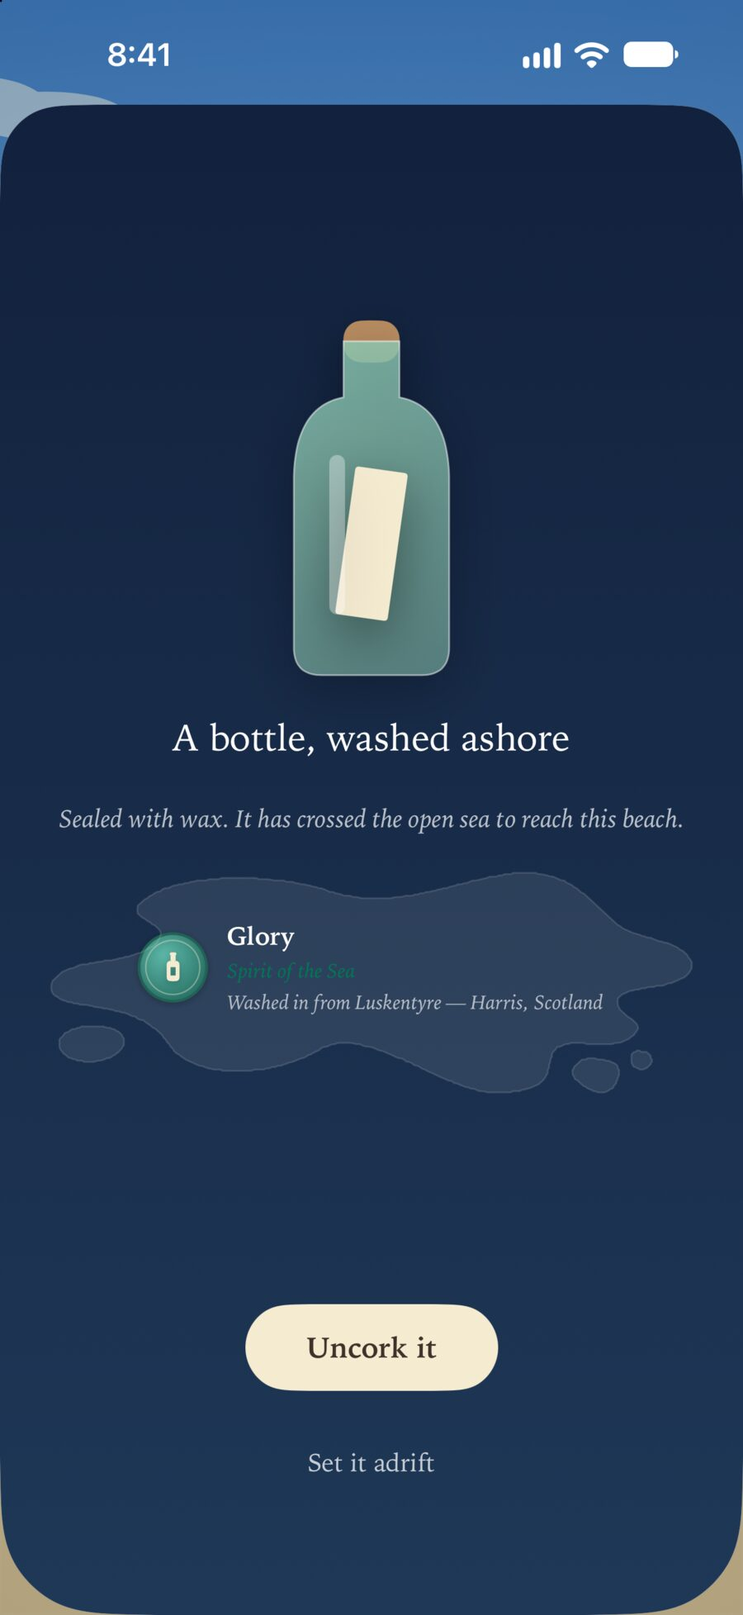
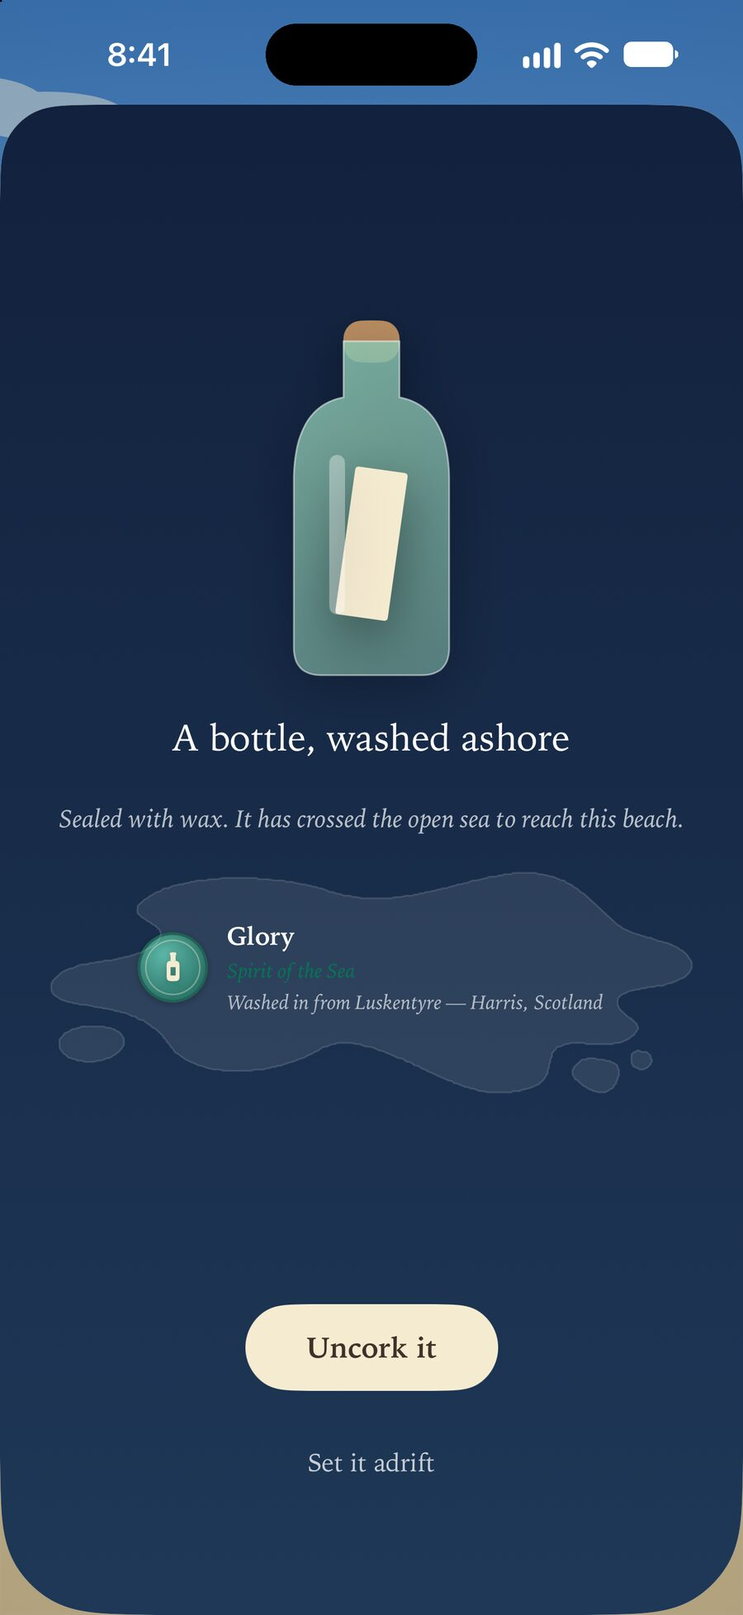
La home ha le riprese nuove: un solo telefono, una bottiglia su ogni spiaggia
Le otto schermate della home vengono dalle riprese fatte apposta per il
sito dalla scheda store (scheda-2026-11/sito/): build 6, tutte dallo
stesso iPhone 17 Pro Max con l'isola dinamica, e una bottiglia sulla
sabbia di ogni spiaggia. Così l'isola c'è in tutti i fotogrammi e
nessuna spiaggia si ripete: la notte della fila è Eggum, non più Unstad,
che resta nell'eroe.

- Stessi nomi di file, con ?v=2 perché la versione di prima è online con
  gli stessi URL; la notte della fila diventa spiagge/eggum-notte.jpg.
- JPG da 900×1955, come prima.
- Alt dell'eroe e delle quattro spiagge riscritti nelle sette lingue (la
  bottiglia sulla sabbia, Eggum alle Lofoten). lingue.js passa a ?v=12.

Changed region(s): [[0.3422, 0.0, 0.6533, 0.0624]]

diff --git a/lingue.js b/lingue.js
@@ -47,7 +47,7 @@ const LINGUE = {
   "Somewhere out there, someone you will never meet is writing to you. The current will carry their bottle to your sand, and yours to a beach you have never seen, in six to thirty-six hours.": "Da qualche parte, qualcuno che non incontrerai mai ti sta scrivendo. La corrente porterà la sua bottiglia sulla tua sabbia, e la tua su una spiaggia che non hai mai visto, fra sei e trentasei ore.",
   "Coming to iPhone and Android": "Presto su iPhone e Android",
   "Free to write, free to receive": "Gratis scrivere, gratis ricevere",
-  "The app at Unstad, in the Lofoten, at night: the aurora and a full moon over a dark arctic sea, with a peak on the horizon.": "L'app a Unstad, alle Lofoten, di notte: l'aurora e la luna piena su un mare artico scuro, con una vetta all'orizzonte.",
+  "The app at Unstad, in the Lofoten, at night: the aurora and a full moon over a dark arctic sea, and a bottle washed up on the sand.": "L'app a Unstad, alle Lofoten, di notte: l'aurora e la luna piena su un mare artico scuro, e una bottiglia approdata sulla sabbia.",
   "The sea opens soon.": "Il mare apre presto.",
   "The shipwreck": "Il naufragio",
   "Sardegna, Italy": "Sardegna, Italia",
@@ -70,10 +70,10 @@ const LINGUE = {
   "A bottle washed ashore, in the app: sealed with wax, from Glory, a Spirit of the Sea, washed in from Luskentyre.": "Una bottiglia approdata, nell'app: sigillata con la ceralacca, da Glory, uno Spirito del Mare, arrivata da Luskentyre.",
   "A correspondence in the journal: a letter from Glory, a Spirit of the Sea, the reply underneath, and a note that the reply is already sailing.": "Un carteggio nel diario: una lettera di Glory, uno Spirito del Mare, sotto la risposta, e una riga che dice che la risposta è già in viaggio.",
   "The nautical chart: a route from Vai, on Crete, west across the Mediterranean and north up the Atlantic to Luskentyre, in Scotland, with the bottle just setting out.": "La carta nautica: una rotta da Vai, a Creta, verso ovest per il Mediterraneo e poi a nord su per l'Atlantico fino a Luskentyre, in Scozia, con la bottiglia appena partita.",
-  "Dawn at Diamond Beach in the app: a lilac sky, a pale sun and an iceberg on the water.": "L'alba a Diamond Beach nell'app: un cielo lilla, un sole pallido e un iceberg sull'acqua.",
-  "Midday at Matira Beach in the app: blue sky, turquoise water and a palm on the white sand.": "Mezzogiorno a Matira Beach nell'app: cielo azzurro, acqua turchese e una palma sulla sabbia bianca.",
-  "Dusk at Reynisfjara in the app: a red sky, the sea stacks and black volcanic sand.": "Il tramonto a Reynisfjara nell'app: un cielo rosso, i faraglioni e la sabbia nera vulcanica.",
-  "Night at Unstad in the app: the aurora over a dark arctic sea.": "La notte a Unstad nell'app: l'aurora sopra un mare artico scuro.",
+  "Dawn at Diamond Beach in the app: a lilac sky, a pale sun, an iceberg on the water and a bottle on the sand.": "L'alba a Diamond Beach nell'app: un cielo lilla, un sole pallido, un iceberg sull'acqua e una bottiglia sulla sabbia.",
+  "Midday at Matira Beach in the app: blue sky, turquoise water, a palm and a bottle on the white sand.": "Mezzogiorno a Matira Beach nell'app: cielo azzurro, acqua turchese, una palma e una bottiglia sulla sabbia bianca.",
+  "Dusk at Reynisfjara in the app: a red sky, the sea stacks and a bottle on the black volcanic sand.": "Il tramonto a Reynisfjara nell'app: un cielo rosso, i faraglioni e una bottiglia sulla sabbia nera vulcanica.",
+  "Night at Eggum, in the Lofoten, in the app: the aurora over a dark arctic sea and a bottle on the sand.": "La notte a Eggum, alle Lofoten, nell'app: l'aurora sopra un mare artico scuro e una bottiglia sulla sabbia.",
   "Four of the 250: dawn at Diamond Beach in Iceland, midday on Bora Bora, dusk on the black sand of Reynisfjara, and an arctic night in the Lofoten with the aurora overhead.": "Quattro delle 250: l'alba a Diamond Beach in Islanda, mezzogiorno a Bora Bora, il tramonto sulla sabbia nera di Reynisfjara, e una notte artica alle Lofoten con l'aurora sopra la testa.",
   "One of the 250 shores the storm knows. Yours could be any of them.": "Una delle 250 rive che la tempesta conosce. La tua potrebbe essere una qualsiasi.",
   "Vík, Iceland": "Vík, Islanda",
@@ -317,7 +317,7 @@ const LINGUE = {
   "Somewhere out there, someone you will never meet is writing to you. The current will carry their bottle to your sand, and yours to a beach you have never seen, in six to thirty-six hours.": "En algún lugar, alguien a quien nunca conocerás te está escribiendo. La corriente llevará su botella a tu arena, y la tuya a una playa que nunca has visto, en un plazo de seis a treinta y seis horas.",
   "Coming to iPhone and Android": "Pronto en iPhone y Android",
   "Free to write, free to receive": "Gratis escribir, gratis recibir",
-  "The app at Unstad, in the Lofoten, at night: the aurora and a full moon over a dark arctic sea, with a peak on the horizon.": "La app en Unstad, en las Lofoten, de noche: la aurora y la luna llena sobre un mar ártico oscuro, con un pico en el horizonte.",
+  "The app at Unstad, in the Lofoten, at night: the aurora and a full moon over a dark arctic sea, and a bottle washed up on the sand.": "La app en Unstad, en las Lofoten, de noche: la aurora y la luna llena sobre un mar ártico oscuro, y una botella llegada a la arena.",
   "The sea opens soon.": "El mar abre pronto.",
   "The shipwreck": "El naufragio",
   "Sardegna, Italy": "Cerdeña, Italia",
@@ -340,10 +340,10 @@ const LINGUE = {
   "A bottle washed ashore, in the app: sealed with wax, from Glory, a Spirit of the Sea, washed in from Luskentyre.": "Una botella llegada a la orilla, en la app: sellada con lacre, de Glory, un Espíritu del Mar, llegada desde Luskentyre.",
   "A correspondence in the journal: a letter from Glory, a Spirit of the Sea, the reply underneath, and a note that the reply is already sailing.": "Una correspondencia en el diario: una carta de Glory, un Espíritu del Mar, debajo la respuesta, y una nota que dice que la respuesta ya navega.",
   "The nautical chart: a route from Vai, on Crete, west across the Mediterranean and north up the Atlantic to Luskentyre, in Scotland, with the bottle just setting out.": "La carta náutica: una ruta desde Vai, en Creta, hacia el oeste por el Mediterráneo y luego al norte por el Atlántico hasta Luskentyre, en Escocia, con la botella recién salida.",
-  "Dawn at Diamond Beach in the app: a lilac sky, a pale sun and an iceberg on the water.": "El alba en Diamond Beach en la app: un cielo lila, un sol pálido y un iceberg en el agua.",
-  "Midday at Matira Beach in the app: blue sky, turquoise water and a palm on the white sand.": "El mediodía en Matira Beach en la app: cielo azul, agua turquesa y una palmera en la arena blanca.",
-  "Dusk at Reynisfjara in the app: a red sky, the sea stacks and black volcanic sand.": "El atardecer en Reynisfjara en la app: un cielo rojo, los farallones y la arena negra volcánica.",
-  "Night at Unstad in the app: the aurora over a dark arctic sea.": "La noche en Unstad en la app: la aurora sobre un mar ártico oscuro.",
+  "Dawn at Diamond Beach in the app: a lilac sky, a pale sun, an iceberg on the water and a bottle on the sand.": "El alba en Diamond Beach en la app: un cielo lila, un sol pálido, un iceberg en el agua y una botella en la arena.",
+  "Midday at Matira Beach in the app: blue sky, turquoise water, a palm and a bottle on the white sand.": "El mediodía en Matira Beach en la app: cielo azul, agua turquesa, una palmera y una botella en la arena blanca.",
+  "Dusk at Reynisfjara in the app: a red sky, the sea stacks and a bottle on the black volcanic sand.": "El atardecer en Reynisfjara en la app: un cielo rojo, los farallones y una botella en la arena negra volcánica.",
+  "Night at Eggum, in the Lofoten, in the app: the aurora over a dark arctic sea and a bottle on the sand.": "La noche en Eggum, en las Lofoten, en la app: la aurora sobre un mar ártico oscuro y una botella en la arena.",
   "Four of the 250: dawn at Diamond Beach in Iceland, midday on Bora Bora, dusk on the black sand of Reynisfjara, and an arctic night in the Lofoten with the aurora overhead.": "Cuatro de las 250: el alba en Diamond Beach, en Islandia, el mediodía en Bora Bora, el atardecer en la arena negra de Reynisfjara y una noche ártica en las Lofoten con la aurora por encima.",
   "One of the 250 shores the storm knows. Yours could be any of them.": "Una de las 250 orillas que la tormenta conoce. La tuya podría ser cualquiera.",
   "Vík, Iceland": "Vík, Islandia",
@@ -587,7 +587,7 @@ const LINGUE = {
   "Somewhere out there, someone you will never meet is writing to you. The current will carry their bottle to your sand, and yours to a beach you have never seen, in six to thirty-six hours.": "Quelque part, quelqu'un que tu ne rencontreras jamais t'écrit. Le courant portera sa bouteille jusqu'à ton sable, et la tienne vers une plage que tu n'as jamais vue, en six à trente-six heures.",
   "Coming to iPhone and Android": "Bientôt sur iPhone et Android",
   "Free to write, free to receive": "Gratuit pour écrire, gratuit pour recevoir",
-  "The app at Unstad, in the Lofoten, at night: the aurora and a full moon over a dark arctic sea, with a peak on the horizon.": "L'application à Unstad, aux Lofoten, la nuit : l'aurore et la pleine lune sur une mer arctique sombre, avec un pic à l'horizon.",
+  "The app at Unstad, in the Lofoten, at night: the aurora and a full moon over a dark arctic sea, and a bottle washed up on the sand.": "L'application à Unstad, aux Lofoten, la nuit : l'aurore et la pleine lune sur une mer arctique sombre, et une bouteille échouée sur le sable.",
   "The sea opens soon.": "La mer ouvre bientôt.",
   "The shipwreck": "Le naufrage",
   "Sardegna, Italy": "Sardaigne, Italie",
@@ -610,10 +610,10 @@ const LINGUE = {
   "A bottle washed ashore, in the app: sealed with wax, from Glory, a Spirit of the Sea, washed in from Luskentyre.": "Une bouteille échouée, dans l'application : scellée à la cire, de Glory, un Esprit de la Mer, venue de Luskentyre.",
   "A correspondence in the journal: a letter from Glory, a Spirit of the Sea, the reply underneath, and a note that the reply is already sailing.": "Une correspondance dans le journal : une lettre de Glory, un Esprit de la Mer, la réponse en dessous, et une note disant que la réponse est déjà en mer.",
   "The nautical chart: a route from Vai, on Crete, west across the Mediterranean and north up the Atlantic to Luskentyre, in Scotland, with the bottle just setting out.": "La carte marine : une route depuis Vai, en Crète, vers l'ouest à travers la Méditerranée puis vers le nord le long de l'Atlantique jusqu'à Luskentyre, en Écosse, avec la bouteille tout juste partie.",
-  "Dawn at Diamond Beach in the app: a lilac sky, a pale sun and an iceberg on the water.": "L'aube à Diamond Beach dans l'application : un ciel lilas, un soleil pâle et un iceberg sur l'eau.",
-  "Midday at Matira Beach in the app: blue sky, turquoise water and a palm on the white sand.": "Midi à Matira Beach dans l'application : un ciel bleu, une eau turquoise et un palmier sur le sable blanc.",
-  "Dusk at Reynisfjara in the app: a red sky, the sea stacks and black volcanic sand.": "Le crépuscule à Reynisfjara dans l'application : un ciel rouge, les aiguilles de roche et le sable noir volcanique.",
-  "Night at Unstad in the app: the aurora over a dark arctic sea.": "La nuit à Unstad dans l'application : l'aurore au-dessus d'une mer arctique sombre.",
+  "Dawn at Diamond Beach in the app: a lilac sky, a pale sun, an iceberg on the water and a bottle on the sand.": "L'aube à Diamond Beach dans l'application : un ciel lilas, un soleil pâle, un iceberg sur l'eau et une bouteille sur le sable.",
+  "Midday at Matira Beach in the app: blue sky, turquoise water, a palm and a bottle on the white sand.": "Midi à Matira Beach dans l'application : un ciel bleu, une eau turquoise, un palmier et une bouteille sur le sable blanc.",
+  "Dusk at Reynisfjara in the app: a red sky, the sea stacks and a bottle on the black volcanic sand.": "Le crépuscule à Reynisfjara dans l'application : un ciel rouge, les aiguilles de roche et une bouteille sur le sable noir volcanique.",
+  "Night at Eggum, in the Lofoten, in the app: the aurora over a dark arctic sea and a bottle on the sand.": "La nuit à Eggum, aux Lofoten, dans l'application : l'aurore au-dessus d'une mer arctique sombre et une bouteille sur le sable.",
   "Four of the 250: dawn at Diamond Beach in Iceland, midday on Bora Bora, dusk on the black sand of Reynisfjara, and an arctic night in the Lofoten with the aurora overhead.": "Quatre des 250 : l'aube à Diamond Beach en Islande, midi à Bora Bora, le crépuscule sur le sable noir de Reynisfjara, et une nuit arctique aux Lofoten avec l'aurore au-dessus.",
   "One of the 250 shores the storm knows. Yours could be any of them.": "Un des 250 rivages que la tempête connaît. Le tien pourrait être n'importe lequel.",
   "Vík, Iceland": "Vík, Islande",
@@ -857,7 +857,7 @@ const LINGUE = {
   "Somewhere out there, someone you will never meet is writing to you. The current will carry their bottle to your sand, and yours to a beach you have never seen, in six to thirty-six hours.": "Irgendwo da draußen schreibt dir jemand, dem du nie begegnen wirst. Die Strömung trägt seine Flasche an deinen Sand und deine an einen Strand, den du nie gesehen hast, in sechs bis sechsunddreißig Stunden.",
   "Coming to iPhone and Android": "Bald für iPhone und Android",
   "Free to write, free to receive": "Kostenlos schreiben, kostenlos empfangen",
-  "The app at Unstad, in the Lofoten, at night: the aurora and a full moon over a dark arctic sea, with a peak on the horizon.": "Die App in Unstad auf den Lofoten, nachts: das Polarlicht und der Vollmond über einem dunklen arktischen Meer, ein Gipfel am Horizont.",
+  "The app at Unstad, in the Lofoten, at night: the aurora and a full moon over a dark arctic sea, and a bottle washed up on the sand.": "Die App in Unstad auf den Lofoten, nachts: das Polarlicht und der Vollmond über einem dunklen arktischen Meer, und eine angespülte Flasche im Sand.",
   "The sea opens soon.": "Das Meer öffnet bald.",
   "The shipwreck": "Der Schiffbruch",
   "Sardegna, Italy": "Sardinien, Italien",
@@ -880,10 +880,10 @@ const LINGUE = {
   "A bottle washed ashore, in the app: sealed with wax, from Glory, a Spirit of the Sea, washed in from Luskentyre.": "Eine angespülte Flasche in der App: mit Wachs versiegelt, von Glory, einem Geist des Meeres, angetrieben von Luskentyre.",
   "A correspondence in the journal: a letter from Glory, a Spirit of the Sea, the reply underneath, and a note that the reply is already sailing.": "Ein Briefwechsel im Tagebuch: ein Brief von Glory, einem Geist des Meeres, darunter die Antwort und ein Hinweis, dass die Antwort schon unterwegs ist.",
   "The nautical chart: a route from Vai, on Crete, west across the Mediterranean and north up the Atlantic to Luskentyre, in Scotland, with the bottle just setting out.": "Die Seekarte: eine Route von Vai auf Kreta nach Westen durchs Mittelmeer und dann nach Norden den Atlantik hinauf bis Luskentyre in Schottland, die Flasche gerade erst aufgebrochen.",
-  "Dawn at Diamond Beach in the app: a lilac sky, a pale sun and an iceberg on the water.": "Morgengrauen am Diamond Beach in der App: ein fliederfarbener Himmel, eine blasse Sonne und ein Eisberg auf dem Wasser.",
-  "Midday at Matira Beach in the app: blue sky, turquoise water and a palm on the white sand.": "Mittag am Matira Beach in der App: blauer Himmel, türkises Wasser und eine Palme auf dem weißen Sand.",
-  "Dusk at Reynisfjara in the app: a red sky, the sea stacks and black volcanic sand.": "Dämmerung in Reynisfjara in der App: ein roter Himmel, die Felsnadeln und schwarzer Vulkansand.",
-  "Night at Unstad in the app: the aurora over a dark arctic sea.": "Nacht in Unstad in der App: das Polarlicht über einem dunklen arktischen Meer.",
+  "Dawn at Diamond Beach in the app: a lilac sky, a pale sun, an iceberg on the water and a bottle on the sand.": "Morgengrauen am Diamond Beach in der App: ein fliederfarbener Himmel, eine blasse Sonne, ein Eisberg auf dem Wasser und eine Flasche im Sand.",
+  "Midday at Matira Beach in the app: blue sky, turquoise water, a palm and a bottle on the white sand.": "Mittag am Matira Beach in der App: blauer Himmel, türkises Wasser, eine Palme und eine Flasche auf dem weißen Sand.",
+  "Dusk at Reynisfjara in the app: a red sky, the sea stacks and a bottle on the black volcanic sand.": "Dämmerung in Reynisfjara in der App: ein roter Himmel, die Felsnadeln und eine Flasche auf schwarzem Vulkansand.",
+  "Night at Eggum, in the Lofoten, in the app: the aurora over a dark arctic sea and a bottle on the sand.": "Nacht in Eggum auf den Lofoten, in der App: das Polarlicht über einem dunklen arktischen Meer und eine Flasche im Sand.",
   "Four of the 250: dawn at Diamond Beach in Iceland, midday on Bora Bora, dusk on the black sand of Reynisfjara, and an arctic night in the Lofoten with the aurora overhead.": "Vier von 250: Morgengrauen am Diamond Beach in Island, Mittag auf Bora Bora, Dämmerung auf dem schwarzen Sand von Reynisfjara und eine arktische Nacht auf den Lofoten mit dem Polarlicht darüber.",
   "One of the 250 shores the storm knows. Yours could be any of them.": "Eines von 250 Ufern, die der Sturm kennt. Deines könnte jedes davon sein.",
   "Vík, Iceland": "Vík, Island",
@@ -1127,7 +1127,7 @@ const LINGUE = {
   "Somewhere out there, someone you will never meet is writing to you. The current will carry their bottle to your sand, and yours to a beach you have never seen, in six to thirty-six hours.": "Em algum lugar, alguém que você nunca vai conhecer está escrevendo para você. A correnteza vai levar a garrafa dessa pessoa até a sua areia, e a sua até uma praia que você nunca viu, em seis a trinta e seis horas.",
   "Coming to iPhone and Android": "Em breve para iPhone e Android",
   "Free to write, free to receive": "Grátis para escrever, grátis para receber",
-  "The app at Unstad, in the Lofoten, at night: the aurora and a full moon over a dark arctic sea, with a peak on the horizon.": "O app em Unstad, nas Lofoten, à noite: a aurora e a lua cheia sobre um mar ártico escuro, com um pico no horizonte.",
+  "The app at Unstad, in the Lofoten, at night: the aurora and a full moon over a dark arctic sea, and a bottle washed up on the sand.": "O app em Unstad, nas Lofoten, à noite: a aurora e a lua cheia sobre um mar ártico escuro, e uma garrafa que chegou à areia.",
   "The sea opens soon.": "O mar abre em breve.",
   "The shipwreck": "O naufrágio",
   "Sardegna, Italy": "Sardenha, Itália",
@@ -1150,10 +1150,10 @@ const LINGUE = {
   "A bottle washed ashore, in the app: sealed with wax, from Glory, a Spirit of the Sea, washed in from Luskentyre.": "Uma garrafa que chegou à praia, no app: selada com lacre, de Glory, um Espírito do Mar, vinda de Luskentyre.",
   "A correspondence in the journal: a letter from Glory, a Spirit of the Sea, the reply underneath, and a note that the reply is already sailing.": "Uma correspondência no diário: uma carta de Glory, um Espírito do Mar, a resposta embaixo, e uma nota dizendo que a resposta já está navegando.",
   "The nautical chart: a route from Vai, on Crete, west across the Mediterranean and north up the Atlantic to Luskentyre, in Scotland, with the bottle just setting out.": "A carta náutica: uma rota de Vai, em Creta, para oeste pelo Mediterrâneo e depois para o norte pelo Atlântico até Luskentyre, na Escócia, com a garrafa acabando de partir.",
-  "Dawn at Diamond Beach in the app: a lilac sky, a pale sun and an iceberg on the water.": "O amanhecer em Diamond Beach no app: um céu lilás, um sol pálido e um iceberg na água.",
-  "Midday at Matira Beach in the app: blue sky, turquoise water and a palm on the white sand.": "O meio-dia em Matira Beach no app: céu azul, água turquesa e uma palmeira na areia branca.",
-  "Dusk at Reynisfjara in the app: a red sky, the sea stacks and black volcanic sand.": "O entardecer em Reynisfjara no app: um céu vermelho, os rochedos no mar e a areia preta vulcânica.",
-  "Night at Unstad in the app: the aurora over a dark arctic sea.": "A noite em Unstad no app: a aurora sobre um mar ártico escuro.",
+  "Dawn at Diamond Beach in the app: a lilac sky, a pale sun, an iceberg on the water and a bottle on the sand.": "O amanhecer em Diamond Beach no app: um céu lilás, um sol pálido, um iceberg na água e uma garrafa na areia.",
+  "Midday at Matira Beach in the app: blue sky, turquoise water, a palm and a bottle on the white sand.": "O meio-dia em Matira Beach no app: céu azul, água turquesa, uma palmeira e uma garrafa na areia branca.",
+  "Dusk at Reynisfjara in the app: a red sky, the sea stacks and a bottle on the black volcanic sand.": "O entardecer em Reynisfjara no app: um céu vermelho, os rochedos no mar e uma garrafa na areia preta vulcânica.",
+  "Night at Eggum, in the Lofoten, in the app: the aurora over a dark arctic sea and a bottle on the sand.": "A noite em Eggum, nas Lofoten, no app: a aurora sobre um mar ártico escuro e uma garrafa na areia.",
   "Four of the 250: dawn at Diamond Beach in Iceland, midday on Bora Bora, dusk on the black sand of Reynisfjara, and an arctic night in the Lofoten with the aurora overhead.": "Quatro das 250: o amanhecer em Diamond Beach, na Islândia, o meio-dia em Bora Bora, o entardecer na areia preta de Reynisfjara e uma noite ártica nas Lofoten com a aurora lá em cima.",
   "One of the 250 shores the storm knows. Yours could be any of them.": "Uma das 250 praias que a tempestade conhece. A sua pode ser qualquer uma.",
   "Vík, Iceland": "Vík, Islândia",
@@ -1397,7 +1397,7 @@ const LINGUE = {
   "Somewhere out there, someone you will never meet is writing to you. The current will carry their bottle to your sand, and yours to a beach you have never seen, in six to thirty-six hours.": "どこかで、一生会うことのない誰かがあなたに手紙を書いている。潮はその瓶をあなたの砂へ、あなたの瓶をまだ見ぬ浜へ、六時間から三十六時間かけて運んでいく。",
   "Coming to iPhone and Android": "iPhone と Android にまもなく登場",
   "Free to write, free to receive": "書くのも、受け取るのも無料",
-  "The app at Unstad, in the Lofoten, at night: the aurora and a full moon over a dark arctic sea, with a peak on the horizon.": "夜のウンスタッド（ロフォーテン）を映すアプリ。暗い北極の海の上にオーロラと満月、水平線には山の頂。",
+  "The app at Unstad, in the Lofoten, at night: the aurora and a full moon over a dark arctic sea, and a bottle washed up on the sand.": "夜のウンスタッド（ロフォーテン）を映すアプリ。暗い北極の海の上にオーロラと満月、砂には流れ着いた瓶。",
   "The sea opens soon.": "海はもうすぐ開きます。",
   "The shipwreck": "難破",
   "Sardegna, Italy": "サルデーニャ、イタリア",
@@ -1420,10 +1420,10 @@ const LINGUE = {
   "A bottle washed ashore, in the app: sealed with wax, from Glory, a Spirit of the Sea, washed in from Luskentyre.": "アプリの中の、流れ着いた瓶。封蝋で閉じられ、海の精グローリーからラスケンタイアを経て届いたもの。",
   "A correspondence in the journal: a letter from Glory, a Spirit of the Sea, the reply underneath, and a note that the reply is already sailing.": "日誌の中の文通。海の精グローリーからの手紙、その下に返事、そして返事がもう海を渡っているという一文。",
   "The nautical chart: a route from Vai, on Crete, west across the Mediterranean and north up the Atlantic to Luskentyre, in Scotland, with the bottle just setting out.": "海図。クレタ島のヴァイから西へ地中海を抜け、大西洋を北上してスコットランドのラスケンタイアへ向かう航路。瓶は出発したばかり。",
-  "Dawn at Diamond Beach in the app: a lilac sky, a pale sun and an iceberg on the water.": "アプリの中のダイヤモンド・ビーチの夜明け。薄紫の空、淡い太陽、水に浮かぶ氷山。",
-  "Midday at Matira Beach in the app: blue sky, turquoise water and a palm on the white sand.": "アプリの中のマティラ・ビーチの正午。青い空、ターコイズの海、白い砂の上のヤシ。",
-  "Dusk at Reynisfjara in the app: a red sky, the sea stacks and black volcanic sand.": "アプリの中のレイニスフィヤラの夕暮れ。赤い空、海に立つ岩柱、黒い火山の砂。",
-  "Night at Unstad in the app: the aurora over a dark arctic sea.": "アプリの中のウンスタッドの夜。暗い北極の海の上を渡るオーロラ。",
+  "Dawn at Diamond Beach in the app: a lilac sky, a pale sun, an iceberg on the water and a bottle on the sand.": "アプリの中のダイヤモンド・ビーチの夜明け。薄紫の空、淡い太陽、水に浮かぶ氷山、砂の上の瓶。",
+  "Midday at Matira Beach in the app: blue sky, turquoise water, a palm and a bottle on the white sand.": "アプリの中のマティラ・ビーチの正午。青い空、ターコイズの海、白い砂の上のヤシと瓶。",
+  "Dusk at Reynisfjara in the app: a red sky, the sea stacks and a bottle on the black volcanic sand.": "アプリの中のレイニスフィヤラの夕暮れ。赤い空、海に立つ岩柱、黒い火山の砂の上の瓶。",
+  "Night at Eggum, in the Lofoten, in the app: the aurora over a dark arctic sea and a bottle on the sand.": "アプリの中のエッゲム（ロフォーテン）の夜。暗い北極の海の上のオーロラと、砂の上の瓶。",
   "Four of the 250: dawn at Diamond Beach in Iceland, midday on Bora Bora, dusk on the black sand of Reynisfjara, and an arctic night in the Lofoten with the aurora overhead.": "250 のうちの四つ。アイスランドのダイヤモンド・ビーチの夜明け、ボラボラ島の正午、レイニスフィヤラの黒い砂の夕暮れ、そして頭上をオーロラが渡るロフォーテンの夜。",
   "One of the 250 shores the storm knows. Yours could be any of them.": "嵐が知っている250の浜辺のひとつ。あなたの浜は、そのどれかもしれない。",
   "Vík, Iceland": "ヴィーク、アイスランド",

diff --git a/index.html b/index.html
@@ -60,8 +60,8 @@
          disegnato qui farebbe due cornici, la sua e quella della finestra, e
          la notte della pagina e quella dell'app sono la stessa notte. -->
     <div class="eroe-app">
-      <img class="schermata-nuda" src="assets/unstad-notte-aurora.jpg" width="900" height="1955" decoding="async"
-           alt="The app at Unstad, in the Lofoten, at night: the aurora and a full moon over a dark arctic sea, with a peak on the horizon.">
+      <img class="schermata-nuda" src="assets/unstad-notte-aurora.jpg?v=2" width="900" height="1955" decoding="async"
+           alt="The app at Unstad, in the Lofoten, at night: the aurora and a full moon over a dark arctic sea, and a bottle washed up on the sand.">
     </div>
   </div>
 
@@ -427,7 +427,7 @@
                  giù, e risalendo l'immagine scartata si ridecodifica sotto il
                  dito — è metà dello scatto. Sette immagini in tutto: si
                  caricano e si tengono. -->
-            <img class="schermata" src="assets/bottiglia-approdata.jpg" width="900" height="1955" decoding="async"
+            <img class="schermata" src="assets/bottiglia-approdata.jpg?v=2" width="900" height="1955" decoding="async"
                  alt="A bottle washed ashore, in the app: sealed with wax, from Glory, a Spirit of the Sea, washed in from Luskentyre.">
           </div>
         </div>
@@ -470,7 +470,7 @@
     <div class="telefono">
       <div class="scocca">
         <div class="schermo">
-          <img class="schermata" src="assets/carteggio-glory.jpg" width="900" height="1955" decoding="async"
+          <img class="schermata" src="assets/carteggio-glory.jpg?v=2" width="900" height="1955" decoding="async"
                  alt="A correspondence in the journal: a letter from Glory, a Spirit of the Sea, the reply underneath, and a note that the reply is already sailing.">
         </div>
       </div>
@@ -506,14 +506,14 @@
        760 px scorrono di lato col dito (scroll-snap), senza JavaScript. -->
   <figure class="quattro-spiagge">
     <ul class="fila-spiagge">
-      <li><img class="schermata-nuda" src="assets/spiagge/diamond-alba.jpg" width="900" height="1955" decoding="async"
-               alt="Dawn at Diamond Beach in the app: a lilac sky, a pale sun and an iceberg on the water."></li>
-      <li><img class="schermata-nuda" src="assets/spiagge/matira-giorno.jpg" width="900" height="1955" decoding="async"
-               alt="Midday at Matira Beach in the app: blue sky, turquoise water and a palm on the white sand."></li>
-      <li><img class="schermata-nuda" src="assets/spiagge/reynisfjara-tramonto.jpg" width="900" height="1955" decoding="async"
-               alt="Dusk at Reynisfjara in the app: a red sky, the sea stacks and black volcanic sand."></li>
-      <li><img class="schermata-nuda" src="assets/spiagge/unstad-notte.jpg" width="900" height="1955" decoding="async"
-               alt="Night at Unstad in the app: the aurora over a dark arctic sea."></li>
+      <li><img class="schermata-nuda" src="assets/spiagge/diamond-alba.jpg?v=2" width="900" height="1955" decoding="async"
+               alt="Dawn at Diamond Beach in the app: a lilac sky, a pale sun, an iceberg on the water and a bottle on the sand."></li>
+      <li><img class="schermata-nuda" src="assets/spiagge/matira-giorno.jpg?v=2" width="900" height="1955" decoding="async"
+               alt="Midday at Matira Beach in the app: blue sky, turquoise water, a palm and a bottle on the white sand."></li>
+      <li><img class="schermata-nuda" src="assets/spiagge/reynisfjara-tramonto.jpg?v=2" width="900" height="1955" decoding="async"
+               alt="Dusk at Reynisfjara in the app: a red sky, the sea stacks and a bottle on the black volcanic sand."></li>
+      <li><img class="schermata-nuda" src="assets/spiagge/eggum-notte.jpg" width="900" height="1955" decoding="async"
+               alt="Night at Eggum, in the Lofoten, in the app: the aurora over a dark arctic sea and a bottle on the sand."></li>
     </ul>
     <figcaption class="didascalia">Four of the 250: dawn at Diamond Beach in Iceland, midday on Bora Bora, dusk on the black sand of Reynisfjara, and an arctic night in the Lofoten with the aurora overhead.</figcaption>
   </figure>
@@ -588,7 +588,7 @@
       <div class="telefono">
         <div class="scocca">
           <div class="schermo">
-            <img class="schermata" src="assets/carta-vai-luskentyre.jpg" width="900" height="1955" decoding="async"
+            <img class="schermata" src="assets/carta-vai-luskentyre.jpg?v=2" width="900" height="1955" decoding="async"
                  alt="The nautical chart: a route from Vai, on Crete, west across the Mediterranean and north up the Atlantic to Luskentyre, in Scotland, with the bottle just setting out.">
           </div>
         </div>
@@ -685,7 +685,7 @@
      sono passati al tu, ma chi aveva `lingue.js` in cache continuava a leggere
      il Lei — Francesco l'ha visto coi suoi occhi la notte stessa. A ogni
      cambio di frasi si alza il numero, e la cache vecchia muore lì. -->
-<script src="lingue.js?v=11"></script>
-<script src="lingua.js?v=11"></script>
+<script src="lingue.js?v=12"></script>
+<script src="lingua.js?v=12"></script>
 </body>
 </html>

diff --git a/press.html b/press.html
@@ -326,8 +326,8 @@
      `lingua.js` scambia i nodi di testo e sceglie da solo la lingua del
      browser. L'inglese resta nell'HTML ed è quello che legge chi arriva senza
      JavaScript. -->
-<script src="lingue.js?v=11"></script>
-<script src="lingua.js?v=11"></script>
+<script src="lingue.js?v=12"></script>
+<script src="lingua.js?v=12"></script>
 
 <!-- L'apertura ha le sue scritte dentro, quindi non basta tradurre la pagina:
      ci sono sette file. Si ascolta il selettore che `lingua.js` ha appena

diff --git a/genera-lingue.py b/genera-lingue.py
@@ -193,13 +193,13 @@ SITO = {
  "pt-BR": "Grátis para escrever, grátis para receber",
  "ja": "書くのも、受け取るのも無料"},
 
-"The app at Unstad, in the Lofoten, at night: the aurora and a full moon over a dark arctic sea, with a peak on the horizon.": {
- "it": "L'app a Unstad, alle Lofoten, di notte: l'aurora e la luna piena su un mare artico scuro, con una vetta all'orizzonte.",
- "es": "La app en Unstad, en las Lofoten, de noche: la aurora y la luna llena sobre un mar ártico oscuro, con un pico en el horizonte.",
- "fr": "L'application à Unstad, aux Lofoten, la nuit : l'aurore et la pleine lune sur une mer arctique sombre, avec un pic à l'horizon.",
- "de": "Die App in Unstad auf den Lofoten, nachts: das Polarlicht und der Vollmond über einem dunklen arktischen Meer, ein Gipfel am Horizont.",
- "pt-BR": "O app em Unstad, nas Lofoten, à noite: a aurora e a lua cheia sobre um mar ártico escuro, com um pico no horizonte.",
- "ja": "夜のウンスタッド（ロフォーテン）を映すアプリ。暗い北極の海の上にオーロラと満月、水平線には山の頂。"},
+"The app at Unstad, in the Lofoten, at night: the aurora and a full moon over a dark arctic sea, and a bottle washed up on the sand.": {
+ "it": "L'app a Unstad, alle Lofoten, di notte: l'aurora e la luna piena su un mare artico scuro, e una bottiglia approdata sulla sabbia.",
+ "es": "La app en Unstad, en las Lofoten, de noche: la aurora y la luna llena sobre un mar ártico oscuro, y una botella llegada a la arena.",
+ "fr": "L'application à Unstad, aux Lofoten, la nuit : l'aurore et la pleine lune sur une mer arctique sombre, et une bouteille échouée sur le sable.",
+ "de": "Die App in Unstad auf den Lofoten, nachts: das Polarlicht und der Vollmond über einem dunklen arktischen Meer, und eine angespülte Flasche im Sand.",
+ "pt-BR": "O app em Unstad, nas Lofoten, à noite: a aurora e a lua cheia sobre um mar ártico escuro, e uma garrafa que chegou à areia.",
+ "ja": "夜のウンスタッド（ロフォーテン）を映すアプリ。暗い北極の海の上にオーロラと満月、砂には流れ着いた瓶。"},
 
 "The sea opens soon.": {
  "it": "Il mare apre presto.",
@@ -356,37 +356,37 @@ SITO = {
  "pt-BR": "A carta náutica: uma rota de Vai, em Creta, para oeste pelo Mediterrâneo e depois para o norte pelo Atlântico até Luskentyre, na Escócia, com a garrafa acabando de partir.",
  "ja": "海図。クレタ島のヴァイから西へ地中海を抜け、大西洋を北上してスコットランドのラスケンタイアへ向かう航路。瓶は出発したばかり。"},
 
-"Dawn at Diamond Beach in the app: a lilac sky, a pale sun and an iceberg on the water.": {
- "it": "L'alba a Diamond Beach nell'app: un cielo lilla, un sole pallido e un iceberg sull'acqua.",
- "es": "El alba en Diamond Beach en la app: un cielo lila, un sol pálido y un iceberg en el agua.",
- "fr": "L'aube à Diamond Beach dans l'application : un ciel lilas, un soleil pâle et un iceberg sur l'eau.",
- "de": "Morgengrauen am Diamond Beach in der App: ein fliederfarbener Himmel, eine blasse Sonne und ein Eisberg auf dem Wasser.",
- "pt-BR": "O amanhecer em Diamond Beach no app: um céu lilás, um sol pálido e um iceberg na água.",
- "ja": "アプリの中のダイヤモンド・ビーチの夜明け。薄紫の空、淡い太陽、水に浮かぶ氷山。"},
+"Dawn at Diamond Beach in the app: a lilac sky, a pale sun, an iceberg on the water and a bottle on the sand.": {
+ "it": "L'alba a Diamond Beach nell'app: un cielo lilla, un sole pallido, un iceberg sull'acqua e una bottiglia sulla sabbia.",
+ "es": "El alba en Diamond Beach en la app: un cielo lila, un sol pálido, un iceberg en el agua y una botella en la arena.",
+ "fr": "L'aube à Diamond Beach dans l'application : un ciel lilas, un soleil pâle, un iceberg sur l'eau et une bouteille sur le sable.",
+ "de": "Morgengrauen am Diamond Beach in der App: ein fliederfarbener Himmel, eine blasse Sonne, ein Eisberg auf dem Wasser und eine Flasche im Sand.",
+ "pt-BR": "O amanhecer em Diamond Beach no app: um céu lilás, um sol pálido, um iceberg na água e uma garrafa na areia.",
+ "ja": "アプリの中のダイヤモンド・ビーチの夜明け。薄紫の空、淡い太陽、水に浮かぶ氷山、砂の上の瓶。"},
 
-"Midday at Matira Beach in the app: blue sky, turquoise water and a palm on the white sand.": {
- "it": "Mezzogiorno a Matira Beach nell'app: cielo azzurro, acqua turchese e una palma sulla sabbia bianca.",
- "es": "El mediodía en Matira Beach en la app: cielo azul, agua turquesa y una palmera en la arena blanca.",
- "fr": "Midi à Matira Beach dans l'application : un ciel bleu, une eau turquoise et un palmier sur le sable blanc.",
- "de": "Mittag am Matira Beach in der App: blauer Himmel, türkises Wasser und eine Palme auf dem weißen Sand.",
- "pt-BR": "O meio-dia em Matira Beach no app: céu azul, água turquesa e uma palmeira na areia branca.",
- "ja": "アプリの中のマティラ・ビーチの正午。青い空、ターコイズの海、白い砂の上のヤシ。"},
+"Midday at Matira Beach in the app: blue sky, turquoise water, a palm and a bottle on the white sand.": {
+ "it": "Mezzogiorno a Matira Beach nell'app: cielo azzurro, acqua turchese, una palma e una bottiglia sulla sabbia bianca.",
+ "es": "El mediodía en Matira Beach en la app: cielo azul, agua turquesa, una palmera y una botella en la arena blanca.",
+ "fr": "Midi à Matira Beach dans l'application : un ciel bleu, une eau turquoise, un palmier et une bouteille sur le sable blanc.",
+ "de": "Mittag am Matira Beach in der App: blauer Himmel, türkises Wasser, eine Palme und eine Flasche auf dem weißen Sand.",
+ "pt-BR": "O meio-dia em Matira Beach no app: céu azul, água turquesa, uma palmeira e uma garrafa na areia branca.",
+ "ja": "アプリの中のマティラ・ビーチの正午。青い空、ターコイズの海、白い砂の上のヤシと瓶。"},
 
-"Dusk at Reynisfjara in the app: a red sky, the sea stacks and black volcanic sand.": {
- "it": "Il tramonto a Reynisfjara nell'app: un cielo rosso, i faraglioni e la sabbia nera vulcanica.",
- "es": "El atardecer en Reynisfjara en la app: un cielo rojo, los farallones y la arena negra volcánica.",
- "fr": "Le crépuscule à Reynisfjara dans l'application : un ciel rouge, les aiguilles de roche et le sable noir volcanique.",
- "de": "Dämmerung in Reynisfjara in der App: ein roter Himmel, die Felsnadeln und schwarzer Vulkansand.",
- "pt-BR": "O entardecer em Reynisfjara no app: um céu vermelho, os rochedos no mar e a areia preta vulcânica.",
- "ja": "アプリの中のレイニスフィヤラの夕暮れ。赤い空、海に立つ岩柱、黒い火山の砂。"},
+"Dusk at Reynisfjara in the app: a red sky, the sea stacks and a bottle on the black volcanic sand.": {
+ "it": "Il tramonto a Reynisfjara nell'app: un cielo rosso, i faraglioni e una bottiglia sulla sabbia nera vulcanica.",
+ "es": "El atardecer en Reynisfjara en la app: un cielo rojo, los farallones y una botella en la arena negra volcánica.",
+ "fr": "Le crépuscule à Reynisfjara dans l'application : un ciel rouge, les aiguilles de roche et une bouteille sur le sable noir volcanique.",
+ "de": "Dämmerung in Reynisfjara in der App: ein roter Himmel, die Felsnadeln und eine Flasche auf schwarzem Vulkansand.",
+ "pt-BR": "O entardecer em Reynisfjara no app: um céu vermelho, os rochedos no mar e uma garrafa na areia preta vulcânica.",
+ "ja": "アプリの中のレイニスフィヤラの夕暮れ。赤い空、海に立つ岩柱、黒い火山の砂の上の瓶。"},
 
-"Night at Unstad in the app: the aurora over a dark arctic sea.": {
- "it": "La notte a Unstad nell'app: l'aurora sopra un mare artico scuro.",
- "es": "La noche en Unstad en la app: la aurora sobre un mar ártico oscuro.",
- "fr": "La nuit à Unstad dans l'application : l'aurore au-dessus d'une mer arctique sombre.",
- "de": "Nacht in Unstad in der App: das Polarlicht über einem dunklen arktischen Meer.",
- "pt-BR": "A noite em Unstad no app: a aurora sobre um mar ártico escuro.",
- "ja": "アプリの中のウンスタッドの夜。暗い北極の海の上を渡るオーロラ。"},
+"Night at Eggum, in the Lofoten, in the app: the aurora over a dark arctic sea and a bottle on the sand.": {
+ "it": "La notte a Eggum, alle Lofoten, nell'app: l'aurora sopra un mare artico scuro e una bottiglia sulla sabbia.",
+ "es": "La noche en Eggum, en las Lofoten, en la app: la aurora sobre un mar ártico oscuro y una botella en la arena.",
+ "fr": "La nuit à Eggum, aux Lofoten, dans l'application : l'aurore au-dessus d'une mer arctique sombre et une bouteille sur le sable.",
+ "de": "Nacht in Eggum auf den Lofoten, in der App: das Polarlicht über einem dunklen arktischen Meer und eine Flasche im Sand.",
+ "pt-BR": "A noite em Eggum, nas Lofoten, no app: a aurora sobre um mar ártico escuro e uma garrafa na areia.",
+ "ja": "アプリの中のエッゲム（ロフォーテン）の夜。暗い北極の海の上のオーロラと、砂の上の瓶。"},
 
 "Four of the 250: dawn at Diamond Beach in Iceland, midday on Bora Bora, dusk on the black sand of Reynisfjara, and an arctic night in the Lofoten with the aurora overhead.": {
  "it": "Quattro delle 250: l'alba a Diamond Beach in Islanda, mezzogiorno a Bora Bora, il tramonto sulla sabbia nera di Reynisfjara, e una notte artica alle Lofoten con l'aurora sopra la testa.",
